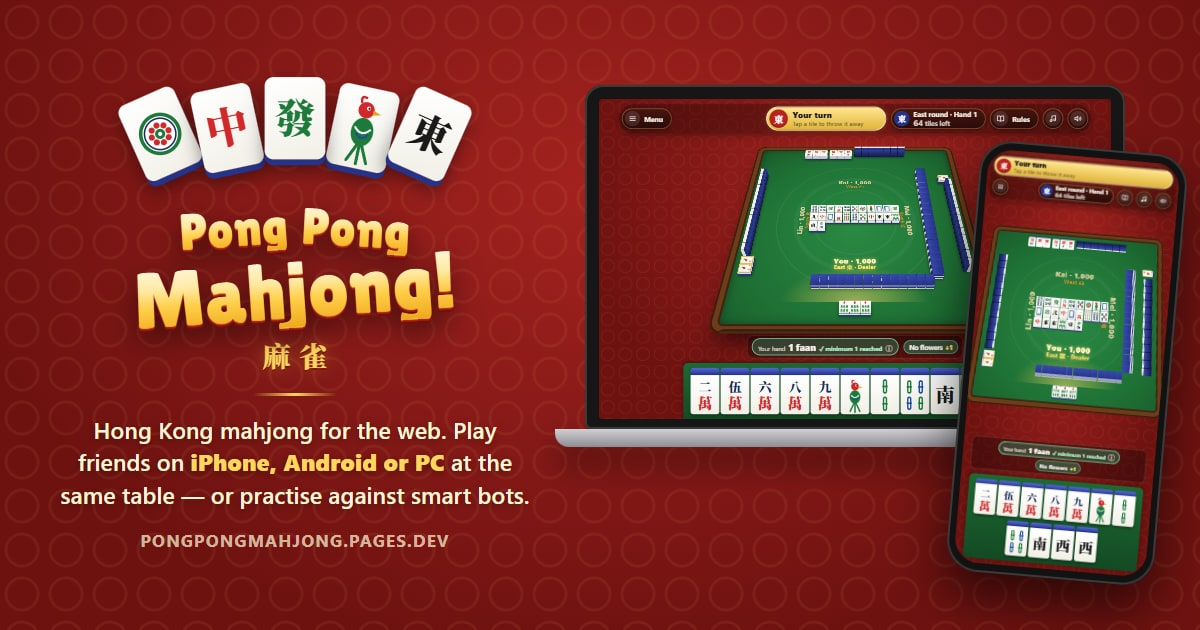
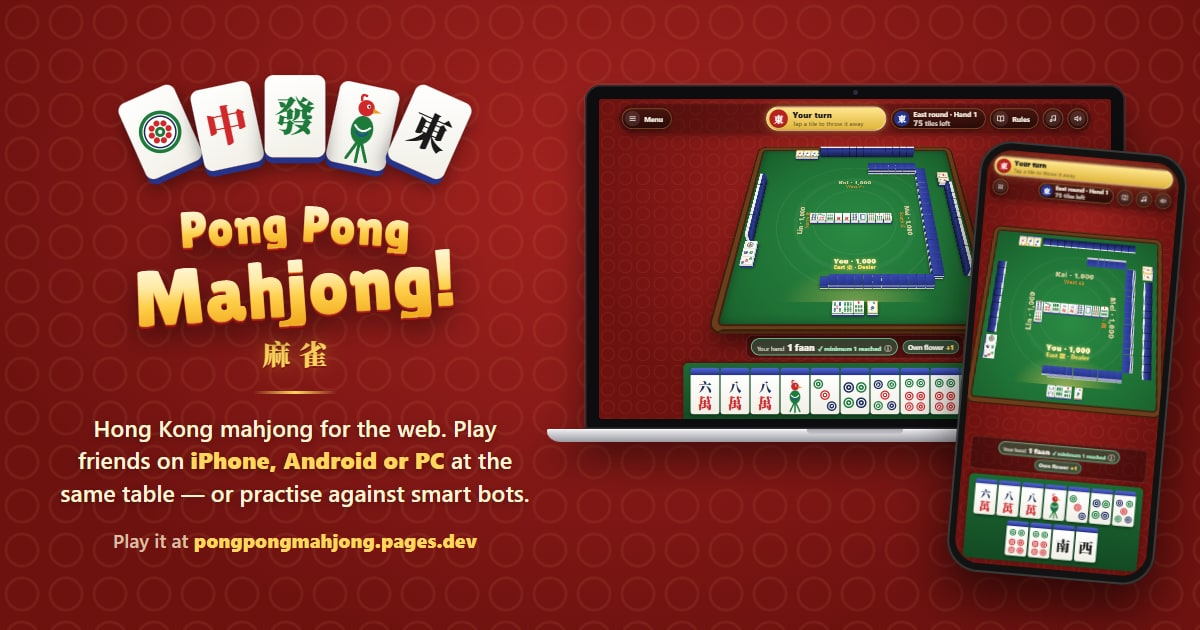
Preview card: a slimmer, more real laptop (camera, notched base, shadow) and 'Play it at pongpongmahjong.pages.dev'

diff --git a/scripts/og-card.html b/scripts/og-card.html
@@ -18,16 +18,23 @@
       .lede { margin: 0; max-width: 500px; text-align: center; text-wrap: balance; color: #fff6d6; font-size: 1.45rem; font-weight: 600; line-height: 1.4;
               text-shadow: 0 2px 8px rgba(0, 0, 0, 0.35); }
       .lede b { color: #ffd75e; font-weight: 800; }
-      .url { color: rgba(255, 246, 214, 0.7); font-size: 1.05rem; font-weight: 700; letter-spacing: 0.08em; }
+      .url { color: rgba(255, 246, 214, 0.75); font-size: 1.2rem; font-weight: 600; }
+      .url b { color: #ffd75e; font-weight: 800; }
       .devices { position: relative; flex: none; width: 580px; height: 520px; }
       .screen { position: absolute; overflow: hidden; background: #6e1210; }
       .screen iframe { position: absolute; left: 0; top: 0; border: 0; transform-origin: 0 0; }
       /* the laptop: the game at a computer's size (1280×800), shown at 0.4 */
-      .laptop { position: absolute; left: 0; top: 30px; width: 540px; }
-      .lid { position: relative; width: 540px; height: 344px; border-radius: 18px 18px 6px 6px; background: #161616; box-shadow: inset 0 0 0 2px #3a3a3a; }
-      .lid .screen { left: 14px; top: 14px; width: 512px; height: 320px; border-radius: 4px; }
+      .laptop { position: absolute; left: 0; top: 30px; width: 540px; filter: drop-shadow(0 20px 18px rgba(0, 0, 0, 0.45)); }
+      /* a thin black bezel with a camera dot, on a slim metal base with the finger notch at the front */
+      .lid { position: relative; width: 540px; height: 344px; border-radius: 16px 16px 3px 3px; background: #0d0d0f;
+             box-shadow: inset 0 0 0 1.5px #2e2e33, 0 -1px 0 1px rgba(255, 255, 255, 0.06); }
+      .lid::before { content: ''; position: absolute; left: 50%; top: 5px; width: 5px; height: 5px; margin-left: -2.5px; border-radius: 50%; background: #2a2d36; }
+      .lid .screen { left: 14px; top: 14px; width: 512px; height: 320px; border-radius: 3px; }
       .lid iframe { width: 1280px; height: 800px; transform: scale(0.4); }
-      .base { width: 600px; height: 18px; margin-left: -30px; border-radius: 0 0 14px 14px; background: linear-gradient(#cfcfd4, #8d8d94); box-shadow: 0 18px 30px rgba(0, 0, 0, 0.45); }
+      .base { position: relative; width: 616px; height: 13px; margin-left: -38px; border-radius: 2px 2px 14px 14px / 2px 2px 11px 11px;
+              background: linear-gradient(#f1f1f4, #c9c9cf 45%, #9a9aa2); box-shadow: inset 0 1px 0 rgba(255, 255, 255, 0.8); }
+      .base::before { content: ''; position: absolute; left: 50%; top: 0; width: 96px; height: 5px; margin-left: -48px;
+                      border-radius: 0 0 7px 7px; background: linear-gradient(#a8a8b0, #c4c4ca); }
       /* the phone in front: the game laid out at its phone width (480), shown at 0.4 */
       .phone { position: absolute; right: -6px; top: 92px; width: 208px; height: 432px; border-radius: 32px; background: #121212;
                box-shadow: 0 24px 50px rgba(0, 0, 0, 0.6), inset 0 0 0 2px #3a3a3a; rotate: 5deg; }
@@ -85,7 +92,9 @@
       const lede = el('p', 'lede')
       lede.append('Hong Kong mahjong for the web. Play friends on ', el('b', '', 'iPhone, Android or PC'), ' at the same table — or practise against smart bots.')
       const left = el('div', 'left')
-      left.append(hero, el('div', 'rule'), lede, el('div', 'url', 'PONGPONGMAHJONG.PAGES.DEV'))
+      const url = el('div', 'url')
+      url.append('Play it at ', el('b', '', 'pongpongmahjong.pages.dev'))
+      left.append(hero, el('div', 'rule'), lede, url)
 
       // the real game, opened onto the saved table: `src` '/' is the computer's 3D table, '/?lite' a phone's
       function game(src) {
